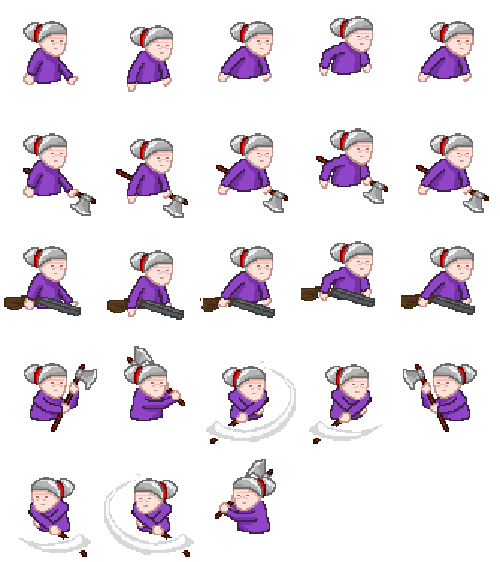
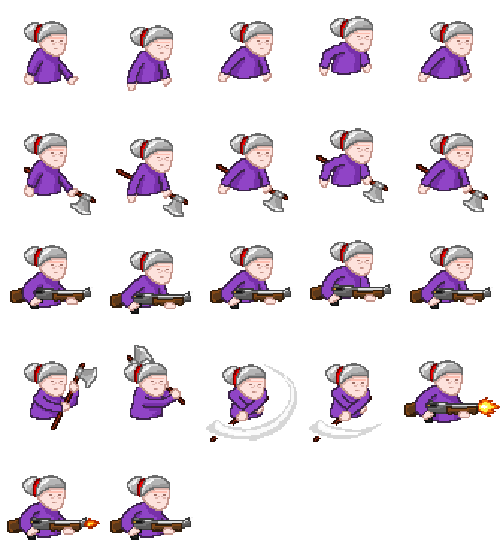
ema ho aggiunto un b8 di robe
animazione fucile, home in cui puoi scegliere livello per debug e nuovi sprite e fix

diff --git a/js/Functions.js b/js/Functions.js
@@ -288,7 +288,7 @@ function boneHitKing(kingWolf, bone) {
     kingWolf.body.velocity.x = -1000;
     timeHit = game.time.now + 300;
     immunity = game.time.now + 500;
-    kingWolf.damage(25);
+    kingWolf.damage(1);
     bone.kill();
   }
 };
@@ -348,7 +348,7 @@ function wolfFrames(Wolves){
 };
 
 function wolfKingShot(){
-  if (game.time.now > kingShot && kingWolf.health >= 10) {
+  if (game.time.now > kingShot && kingWolf.health > 0) {
     bone = Bones.create(kingWolf.x, kingWolf.y, 'barGranny');
     bone.rimbalzo = 0;
     bone.body.gravity.y = gravity;
@@ -380,19 +380,30 @@ function wolfKingHearts() {
   wolfLife2.x = kingWolf.x - 25;
   wolfLife3.x = kingWolf.x;
   wolfLife4.x = kingWolf.x + 25;
+  wolfLife5.x = kingWolf.x + 50;
+  wolfLife6.x = kingWolf.x + 75;
 
-  if (kingWolf.health < 100 && kingWolf.health >= 75) {
+  if (kingWolf.health == 5) {
+    wolfLife6.frame = 1;
+    if(kingWolf.x > 94*m){
+    //  kingWolf.body.velocity.x =
+    }
+  }if (kingWolf.health == 4) {
+    wolfLife5.frame = 1;
+  }if (kingWolf.health == 3) {
     wolfLife4.frame = 1;
-  }if (kingWolf.health < 75  && kingWolf.health >= 50) {
+  }if (kingWolf.health == 2) {
     wolfLife3.frame = 1;
-  }if (kingWolf.health < 50 && kingWolf.health >= 25) {
+  }if (kingWolf.health == 1) {
     wolfLife2.frame = 1;
-  }if (kingWolf.health < 25 && kingWolf.health >= 0) {
+  }if (kingWolf.health === 0) {
     wolfLife1.frame = 1;
     wolfLife1.kill();
     wolfLife2.kill();
     wolfLife3.kill();
     wolfLife4.kill();
+    wolfLife5.kill();
+    wolfLife6.kill();
   }
 };
 // wolves BEHAVE and FRAMES functions end
@@ -432,18 +443,19 @@ function rifle(){
         bullet.body.gravity.y = 25;
         bullet.body.velocity.x = bulletVelocity + playerUp.body.velocity.x;
       }
-      shootTime = game.time.now + 300;
+      shootTime = game.time.now + 600;
       shoot = false;
       bulletN--;
     }
 
-    if (SPACE.isUp) {
+    if (game.time.now > shootTime) {
       shoot = true;
       axeHit = true;
+      if (bulletN <= 0) {
+        gotAxe=1;
+      }
     }
-    if (bulletN <= 0) {
-      gotAxe=1;
-    }
+
   }
 }
 
@@ -558,11 +570,14 @@ function playerAnimationUp(){
   }
   if (axeHit == false){
     playerUp.animations.play('rightAxeChop');
+  }else if(shoot == false && gotAxe == 2 && game.time.now > tAnimazioneSparo){
+    playerUp.animations.play('rightShot');
+    tAnimazioneSparo = game.time.now + 600;
   }
 
 };
 //animations END
-
+var tAnimazioneSparo = 0;
 //player attack HItBOX
 
 function changeHitbox() {

diff --git a/js/Level_2.js b/js/Level_2.js
@@ -21,11 +21,15 @@ var GameLevel_2 = {
     game.load.image('scena3', 'assets/scene/cappuccetto alla finestra.jpg');
     game.load.spritesheet('heart', 'assets/images/heart.png', 32, 32);
 
+    game.load.image('livello2', 'assets/images/level2.png');
+
     worldPreload(); //find in World.js
     playerPreload(); //find in Player.js
   },
 
   create: function() {
+
+    level2 = game.add.sprite(1*m, 1*m, 'livello2');
 
     level = 2;
     step = 0;
@@ -126,7 +130,7 @@ var GameLevel_2 = {
     wolfPatrolCreate(60,50,67);
     platformCreate(68,50,3);
     platformCreate(71,48,3);
-    wolfCreate(78,46);
+    wolfPatrolCreate(75,46,85);
     rockCreate(74,48,1,11);
     thornsCreate(50,57,26);
     rockCreate(75,48,5,1);
@@ -155,7 +159,7 @@ var GameLevel_2 = {
     game.physics.arcade.enable(kingWolf);
     kingWolf.enableBody = true;
     kingWolf.body.gravity.y = gravity;
-    kingWolf.health = 100;
+    kingWolf.health = 6;
     kingWolf.alpha = 0.5;
     kingWolf.anchor.setTo(.5,.5);
 
@@ -163,6 +167,8 @@ var GameLevel_2 = {
     wolfLife2 = game.add.sprite(kingWolf.x + 50, kingWolf.y - 50, 'heart');
     wolfLife3 = game.add.sprite(kingWolf.x + 100, kingWolf.y - 50, 'heart');
     wolfLife4 = game.add.sprite(kingWolf.x + 150, kingWolf.y - 50, 'heart');
+    wolfLife5 = game.add.sprite(kingWolf.x + 150, kingWolf.y - 50, 'heart');
+    wolfLife6 = game.add.sprite(kingWolf.x + 150, kingWolf.y - 50, 'heart');
 
     ultimo = platformsDes.create(118*m, 54*m, 'd1');
 
@@ -175,6 +181,9 @@ var GameLevel_2 = {
     cappuccetto = game.add.sprite(121*m, 57*m, 'cappuccetto');
     game.physics.arcade.enable(cappuccetto);
     cappuccetto.enableBody = true;
+
+    thorns.setAll('alpha','0');
+
   },
 
   update: function() {
@@ -240,7 +249,7 @@ var GameLevel_2 = {
       }, 1000)
     }
 
-    if (kingWolf.health <= 10){
+    if (kingWolf.health <= 0){
       rock1.kill();
       rock2.kill();
       game.camera.follow(playerUp, Phaser.Camera.FOLLOW_LOCKON, 0.05, 0.05);
@@ -288,7 +297,7 @@ var GameLevel_2 = {
       }, 2640);
       setTimeout(function(){
         if (fristBone == 2) {
-          kingWolf.damage(25);
+          kingWolf.damage(1);
           flashDamage();
           bone.kill();
           fristBone = 3;

diff --git a/js/Level_1.js b/js/Level_1.js
@@ -16,7 +16,6 @@ var GameLevel_1 = {
 
     game.load.spritesheet('axe', 'assets/images/axe_64.png', 64, 64);
 
-    game.load.image('house', 'assets/images/house.png');
     game.load.image('p1', 'assets/images/p1.png');
     game.load.image('p2', 'assets/images/p2.png');
     game.load.image('p3', 'assets/images/p3.png');
@@ -34,6 +33,7 @@ var GameLevel_1 = {
     game.load.image('scena1', 'assets/scene/cappuccetto nel bosco.jpg');
 
     game.load.image('livello1', 'assets/images/level1.png');
+    game.load.image('livello1back', 'assets/images/level1sfondo.png');
     game.load.image('skyBackground', 'assets/images/sky background.png');
 
 
@@ -48,10 +48,10 @@ var GameLevel_1 = {
     skyBack = game.add.sprite(0, 0, 'skyBackground');
     skyBack.fixedToCamera = true;
 
+    level1back = game.add.sprite(1*m, 1*m, 'livello1back');
     level1 = game.add.sprite(1*m, 1*m, 'livello1');
 
     //Backgrounds
-    game.add.sprite(0*m, 50*m, 'house');
     game.add.sprite(6.5*m, 57*m, 'tutorialMove');
     game.add.sprite(10.5*m, 55*m, 'tutorialUp');
     game.add.sprite(14.25*m, 53.5*m, 'tutorialAxe');
@@ -209,6 +209,7 @@ var GameLevel_1 = {
 
   platformsOver.setAll('alpha','0');
   platforms.setAll('alpha','0');
+  thorns.setAll('alpha','0');
 
   },
 

diff --git a/js/Start.js b/js/Start.js
@@ -4,6 +4,8 @@ var GameStart = {
     game.load.crossOrigin = 'anonymous';
     game.load.image('copertina', 'assets/images/copertina.png');
     game.load.image('start', 'assets/images/start.png');
+    game.load.image('startL1', 'assets/images/startL1.png');
+    game.load.image('startL2', 'assets/images/startL2.png');
   },
 
   create: function() {
@@ -13,12 +15,30 @@ var GameStart = {
     start.anchor.setTo(.5,.5);
     start.inputEnabled = true;
     start.events.onInputUp.add(imageClick);
+    l1 = game.add.sprite(512, 100, 'startL1');
+    l1.anchor.setTo(.5,.5);
+    l1.inputEnabled = true;
+    l1.events.onInputUp.add(imageClickLevel1);
+    l2 = game.add.sprite(512, 500, 'startL2');
+    l2.anchor.setTo(.5,.5);
+    l2.inputEnabled = true;
+    l2.events.onInputUp.add(imageClickLevel2);
   },
 
 };
 
 function imageClick() {
     this.game.state.start('ScenaBloodmoon');
+}
+function imageClickLevel1() {
+    spawnX = 2*m;
+    spawnY = 56*m;
+    this.game.state.start('GameLevel_1');
+}
+function imageClickLevel2() {
+    spawnX = 6*m;
+    spawnY = 6*m;
+    this.game.state.start('GameLevel_2');
 }
 
 var game = new Phaser.Game(1024, 768, Phaser.AUTO);

diff --git a/js/Player.js b/js/Player.js
@@ -50,7 +50,9 @@ function playerCreate(){
   playerUp.animations.add('rightAxe', [6, 7, 8, 9], 10, true);
   playerUp.animations.add('rightGun', [11, 12, 13, 14], 10, true);
   animAxe = playerUp.animations.add('rightAxeChop', [15, 16, 17, 18], 10, true);
+  animShot = playerUp.animations.add('rightShot', [21, 20, 19], 10, true);
   animAxe.loop = false;
+  animShot.loop = false;
 
 };
 
@@ -95,6 +97,12 @@ function playerUpdate(){
 
   //find in Functions.js
   if (animAxe.isPlaying) {
+    if (position=='leftt') {
+      playerUp.scale.x = -1;
+    }else {
+      playerUp.scale.x = 1;
+    }
+  }else if (animShot.isPlaying) {
     if (position=='leftt') {
       playerUp.scale.x = -1;
     }else {

diff --git a/js/Var.js b/js/Var.js
@@ -12,8 +12,8 @@ var playerVelocity = 400;
 var playerJump = -450;
 var slowDownFactor = 0.87;
 var bulletVelocity = 500;
-var spawnX = 91*m;
-var spawnY = 47*m;
+var spawnX = 16*m;
+var spawnY = 27*m;
 
 //WOLF var
 var wolfJump = -250;
